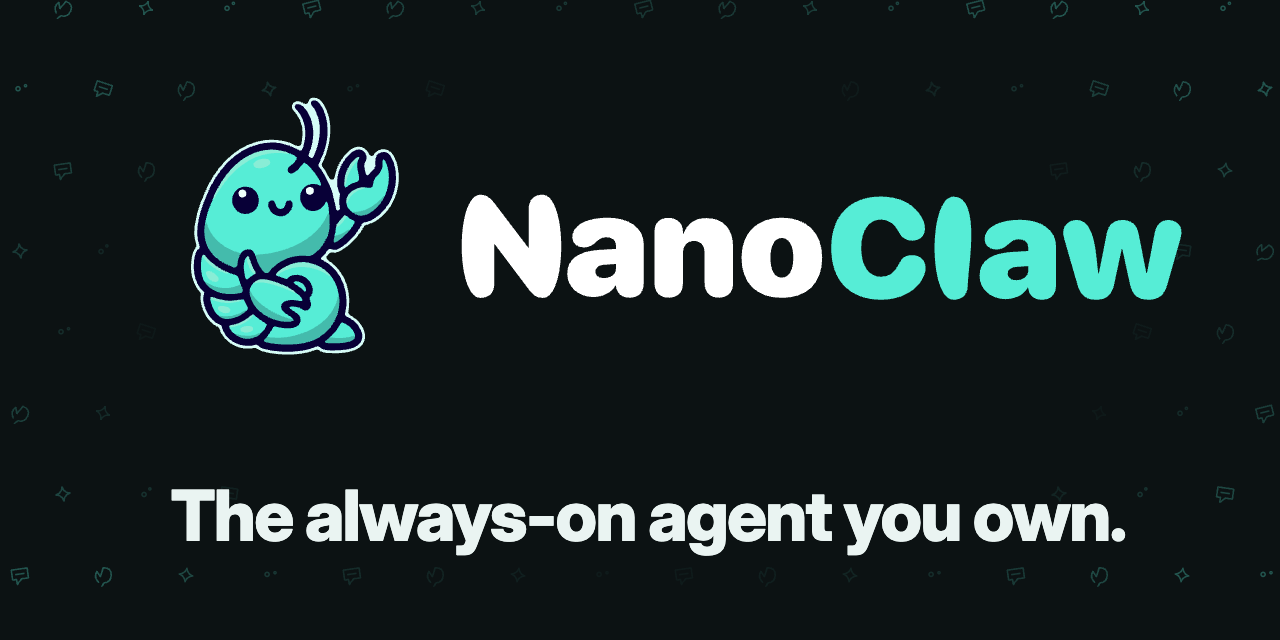
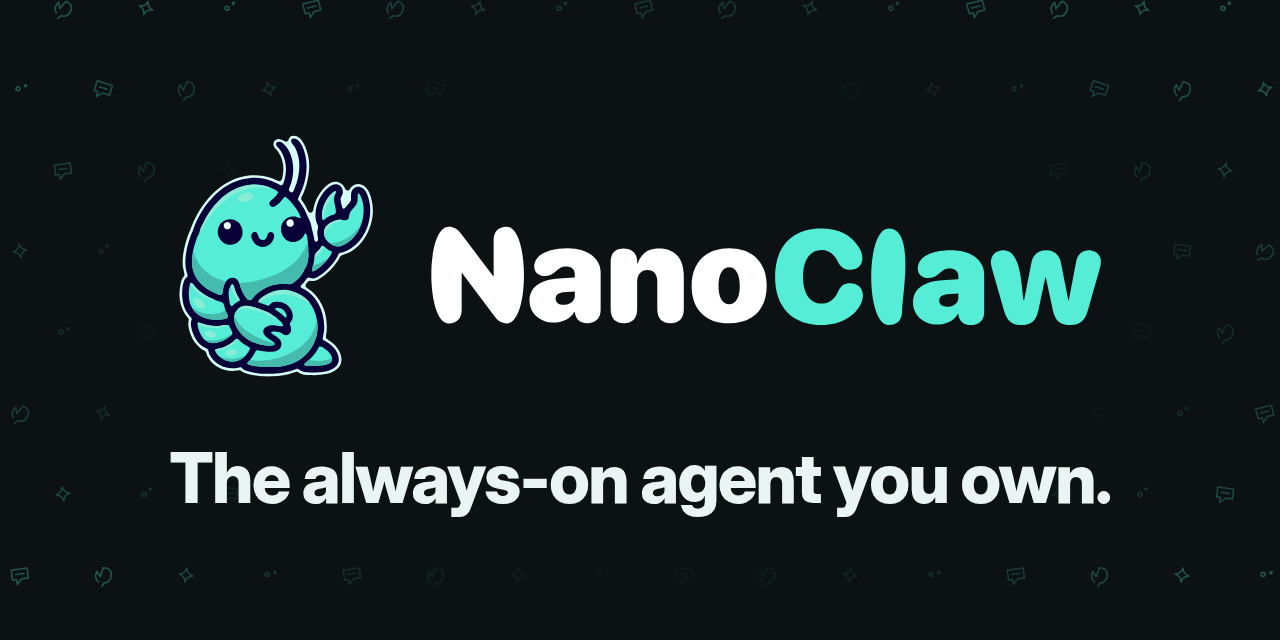
Update the social card to the approved layout

Changed region(s): [[0.3125, 0.2812, 0.9375, 0.5312], [0.125, 0.6875, 0.875, 0.875], [0.125, 0.1562, 0.3125, 0.5938]]

diff --git a/social/card.html b/social/card.html
@@ -9,8 +9,6 @@
       margin: 0;
       width: 1280px;
       height: 640px;
-      display: grid;
-      place-content: center;
       background: var(--nc-bg) url(pattern.svg) center / cover;
       color: var(--nc-text);
     }
@@ -18,17 +16,16 @@
       display: flex;
       flex-direction: column;
       align-items: center;
-      gap: 108px;
+      padding-top: 124px;
+      gap: 49px;
     }
     img {
-      width: 1032px;
-      transform: translateX(46px);
+      width: 960px;
     }
     h1 {
       margin: 0;
-      font: 800 70px/80px var(--nc-font-heading);
-      letter-spacing: -0.025em;
-      transform: translateX(8px);
+      font: 740 70px/80px var(--nc-font-heading);
+      letter-spacing: -0.0254em;
     }
   </style>
 </head>
